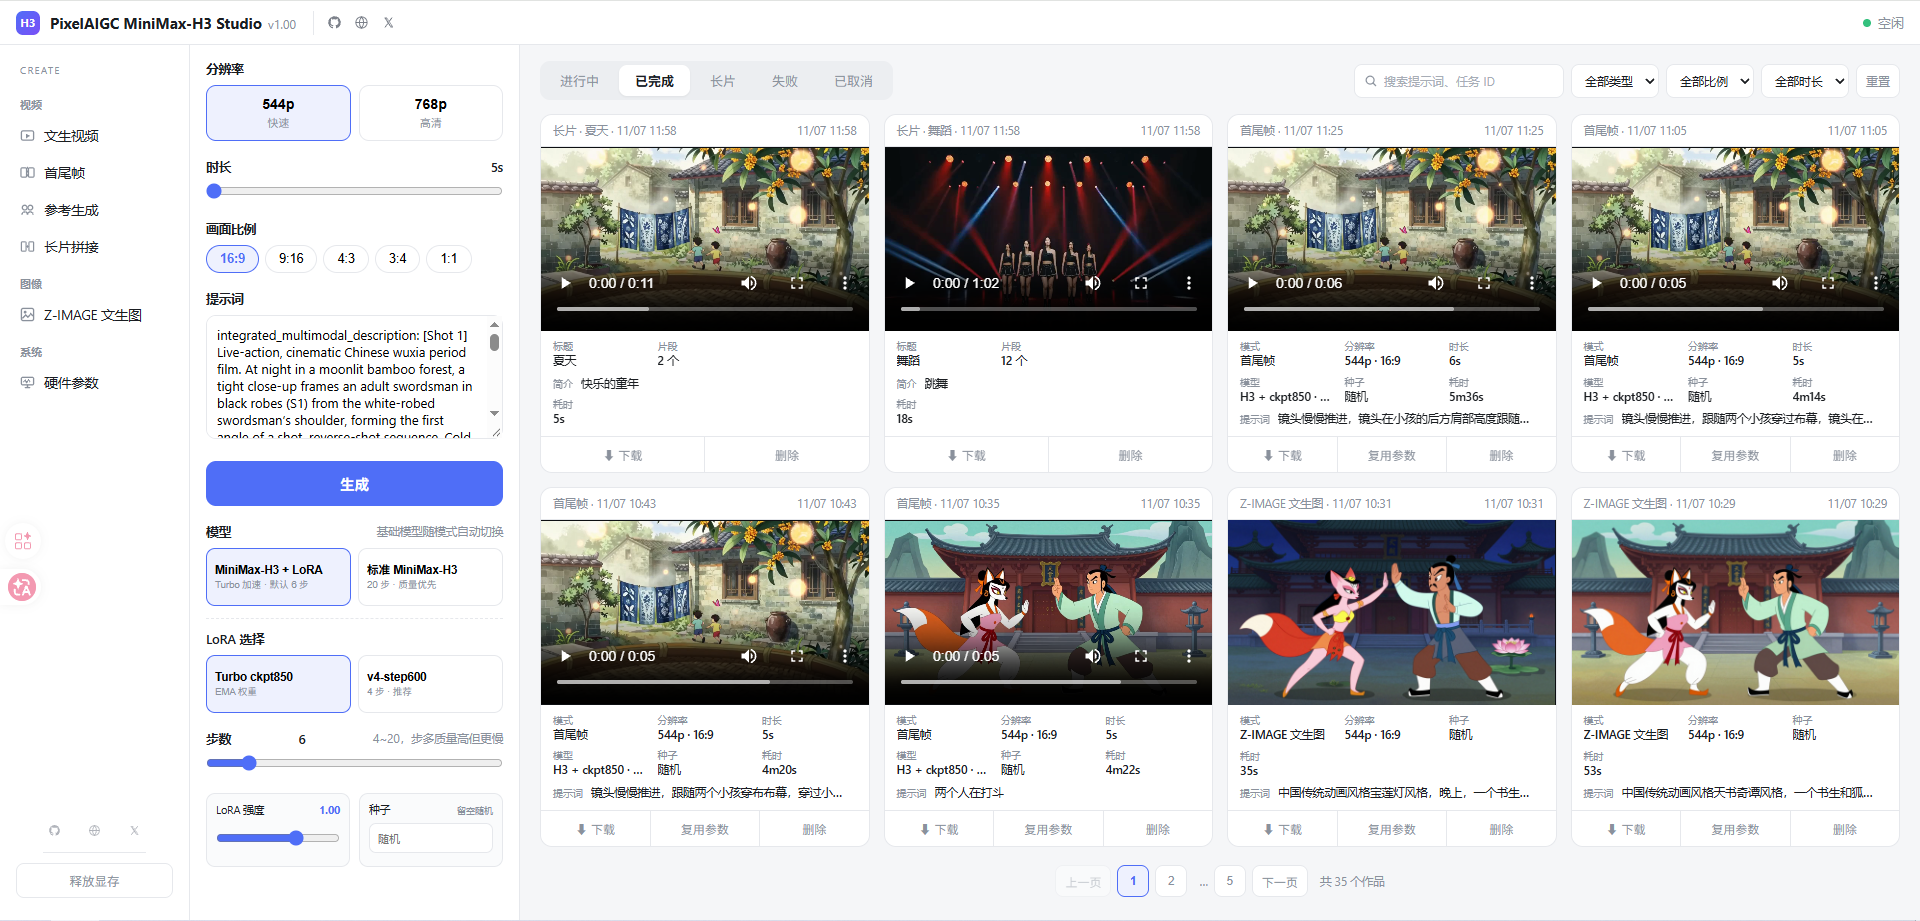
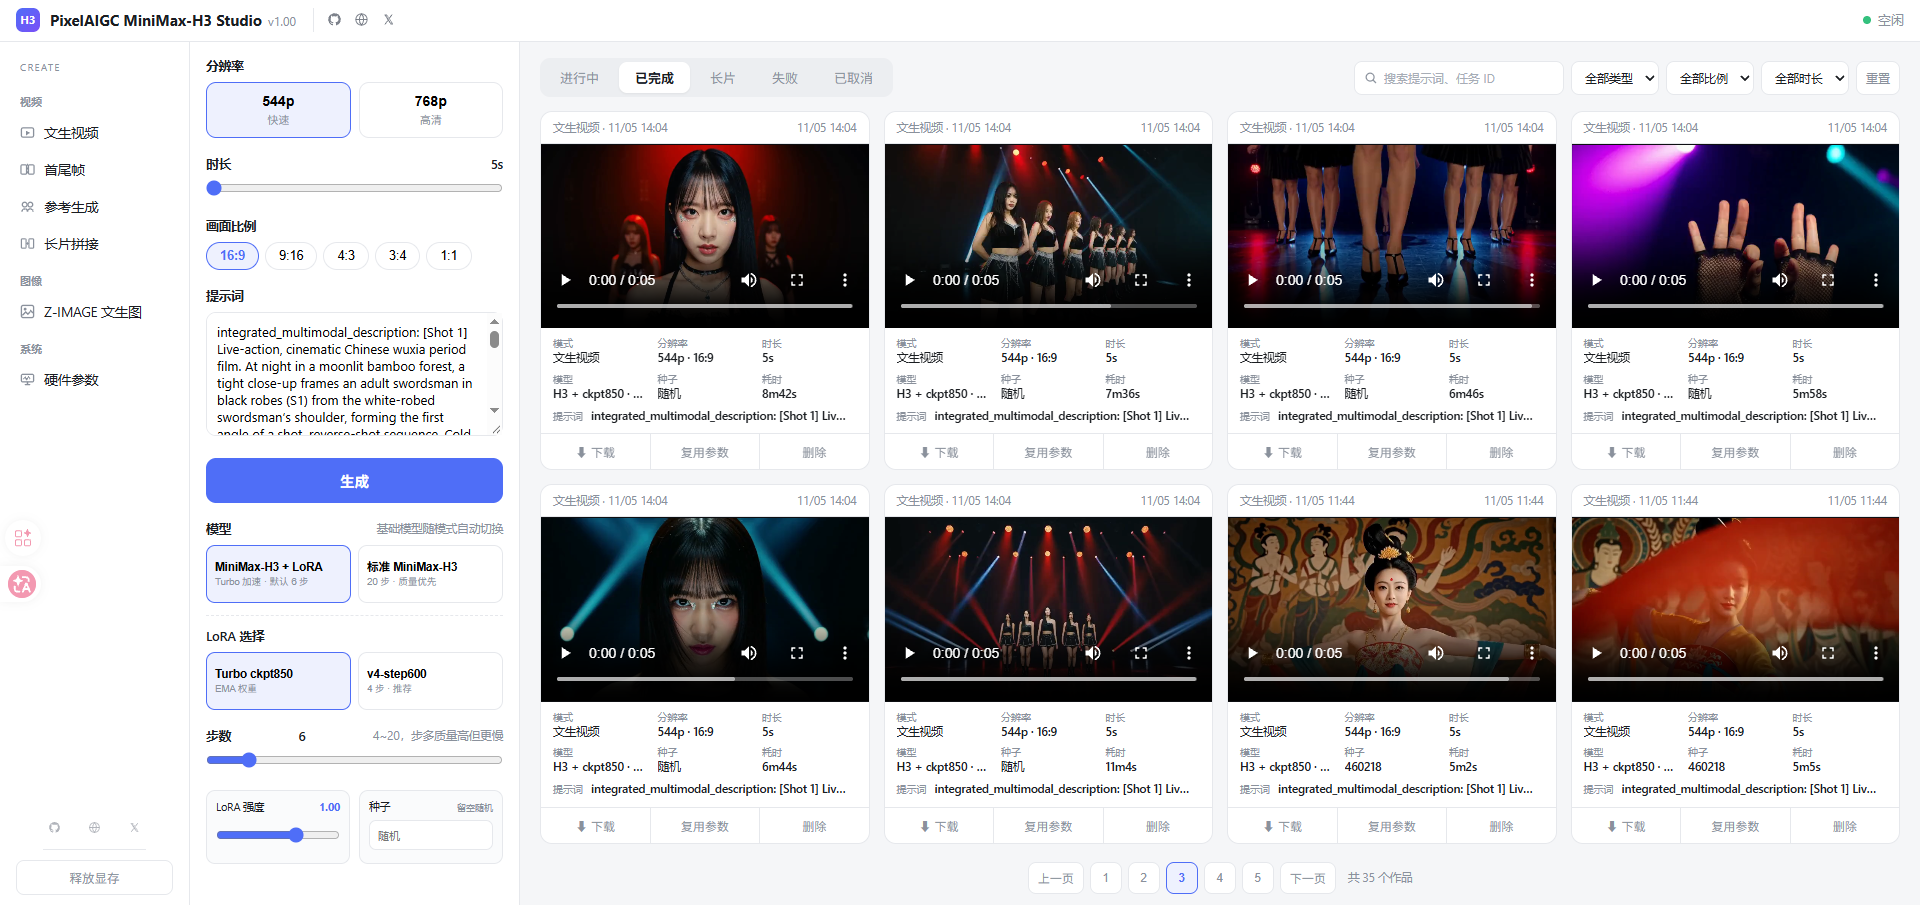
docs: swap README screenshot for a livelier works page

diff --git a/README.md b/README.md
@@ -8,7 +8,7 @@
 
 ![H3 Studio v1.00 — 主界面：左侧模式与参数面板，右侧已完成任务卡片流](docs/images/h3-studio-v1.00.png)
 
-*H3 Studio v1.00 实机截图（作者本地生产环境）。左：模式与参数面板；右：已完成任务卡片流，含长片、首尾帧与 Z-IMAGE 文生图作品，可直接播放、下载、复用参数或删除。*
+*H3 Studio v1.00 实机截图（作者本地生产环境）。左：模式与参数面板；右：已完成任务卡片流（此页为文生视频作品），可直接播放、下载、复用参数或删除。*
 
 截图里可以看到：
 
